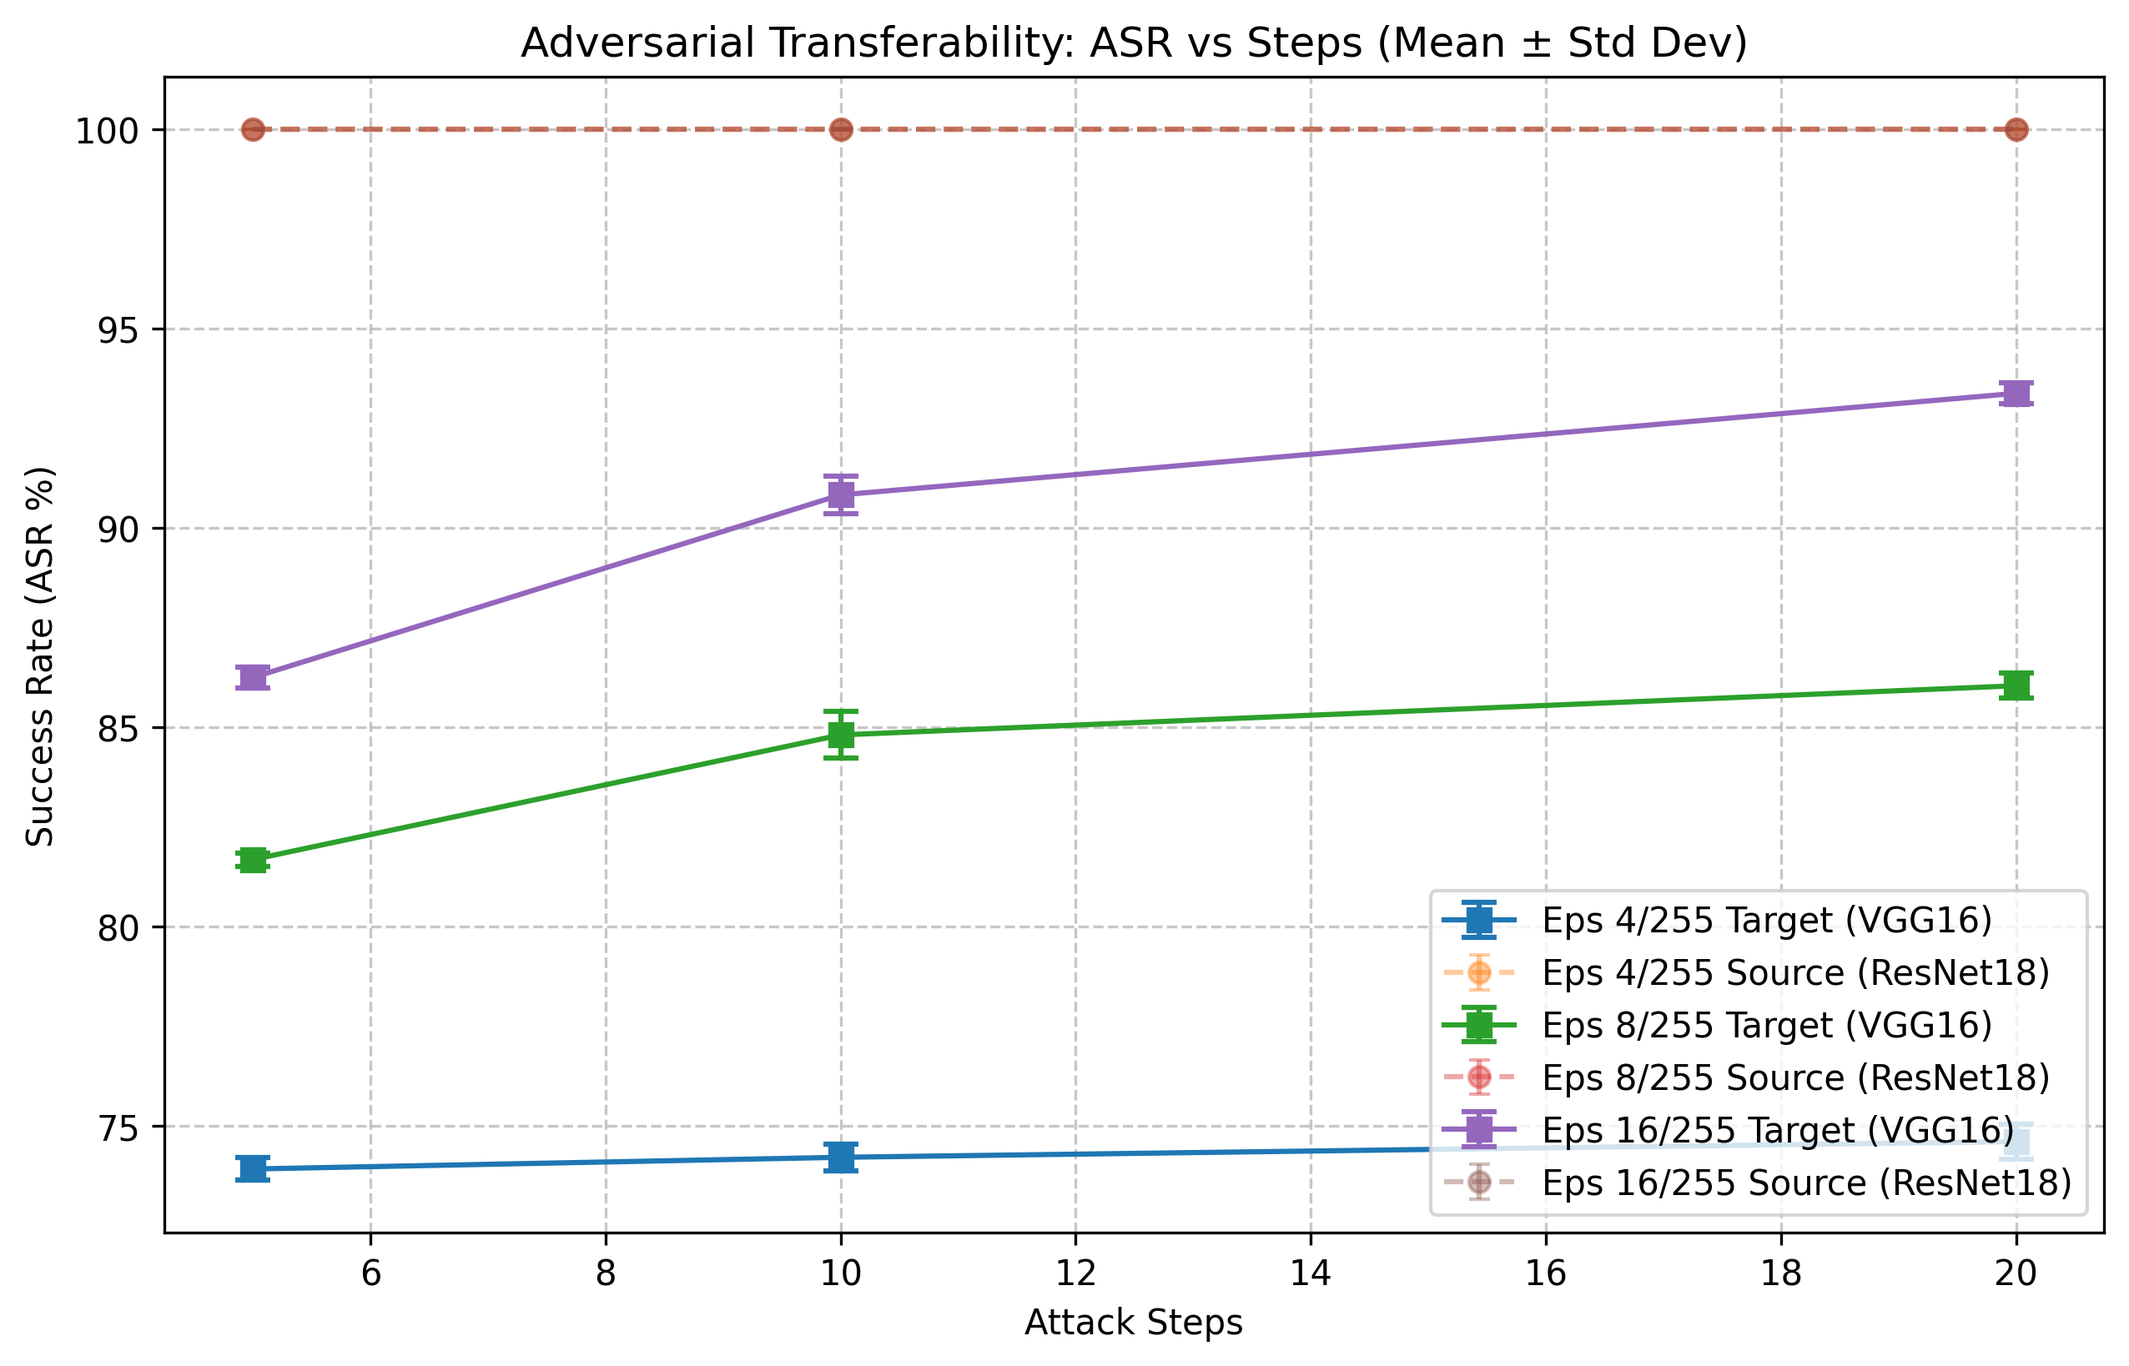
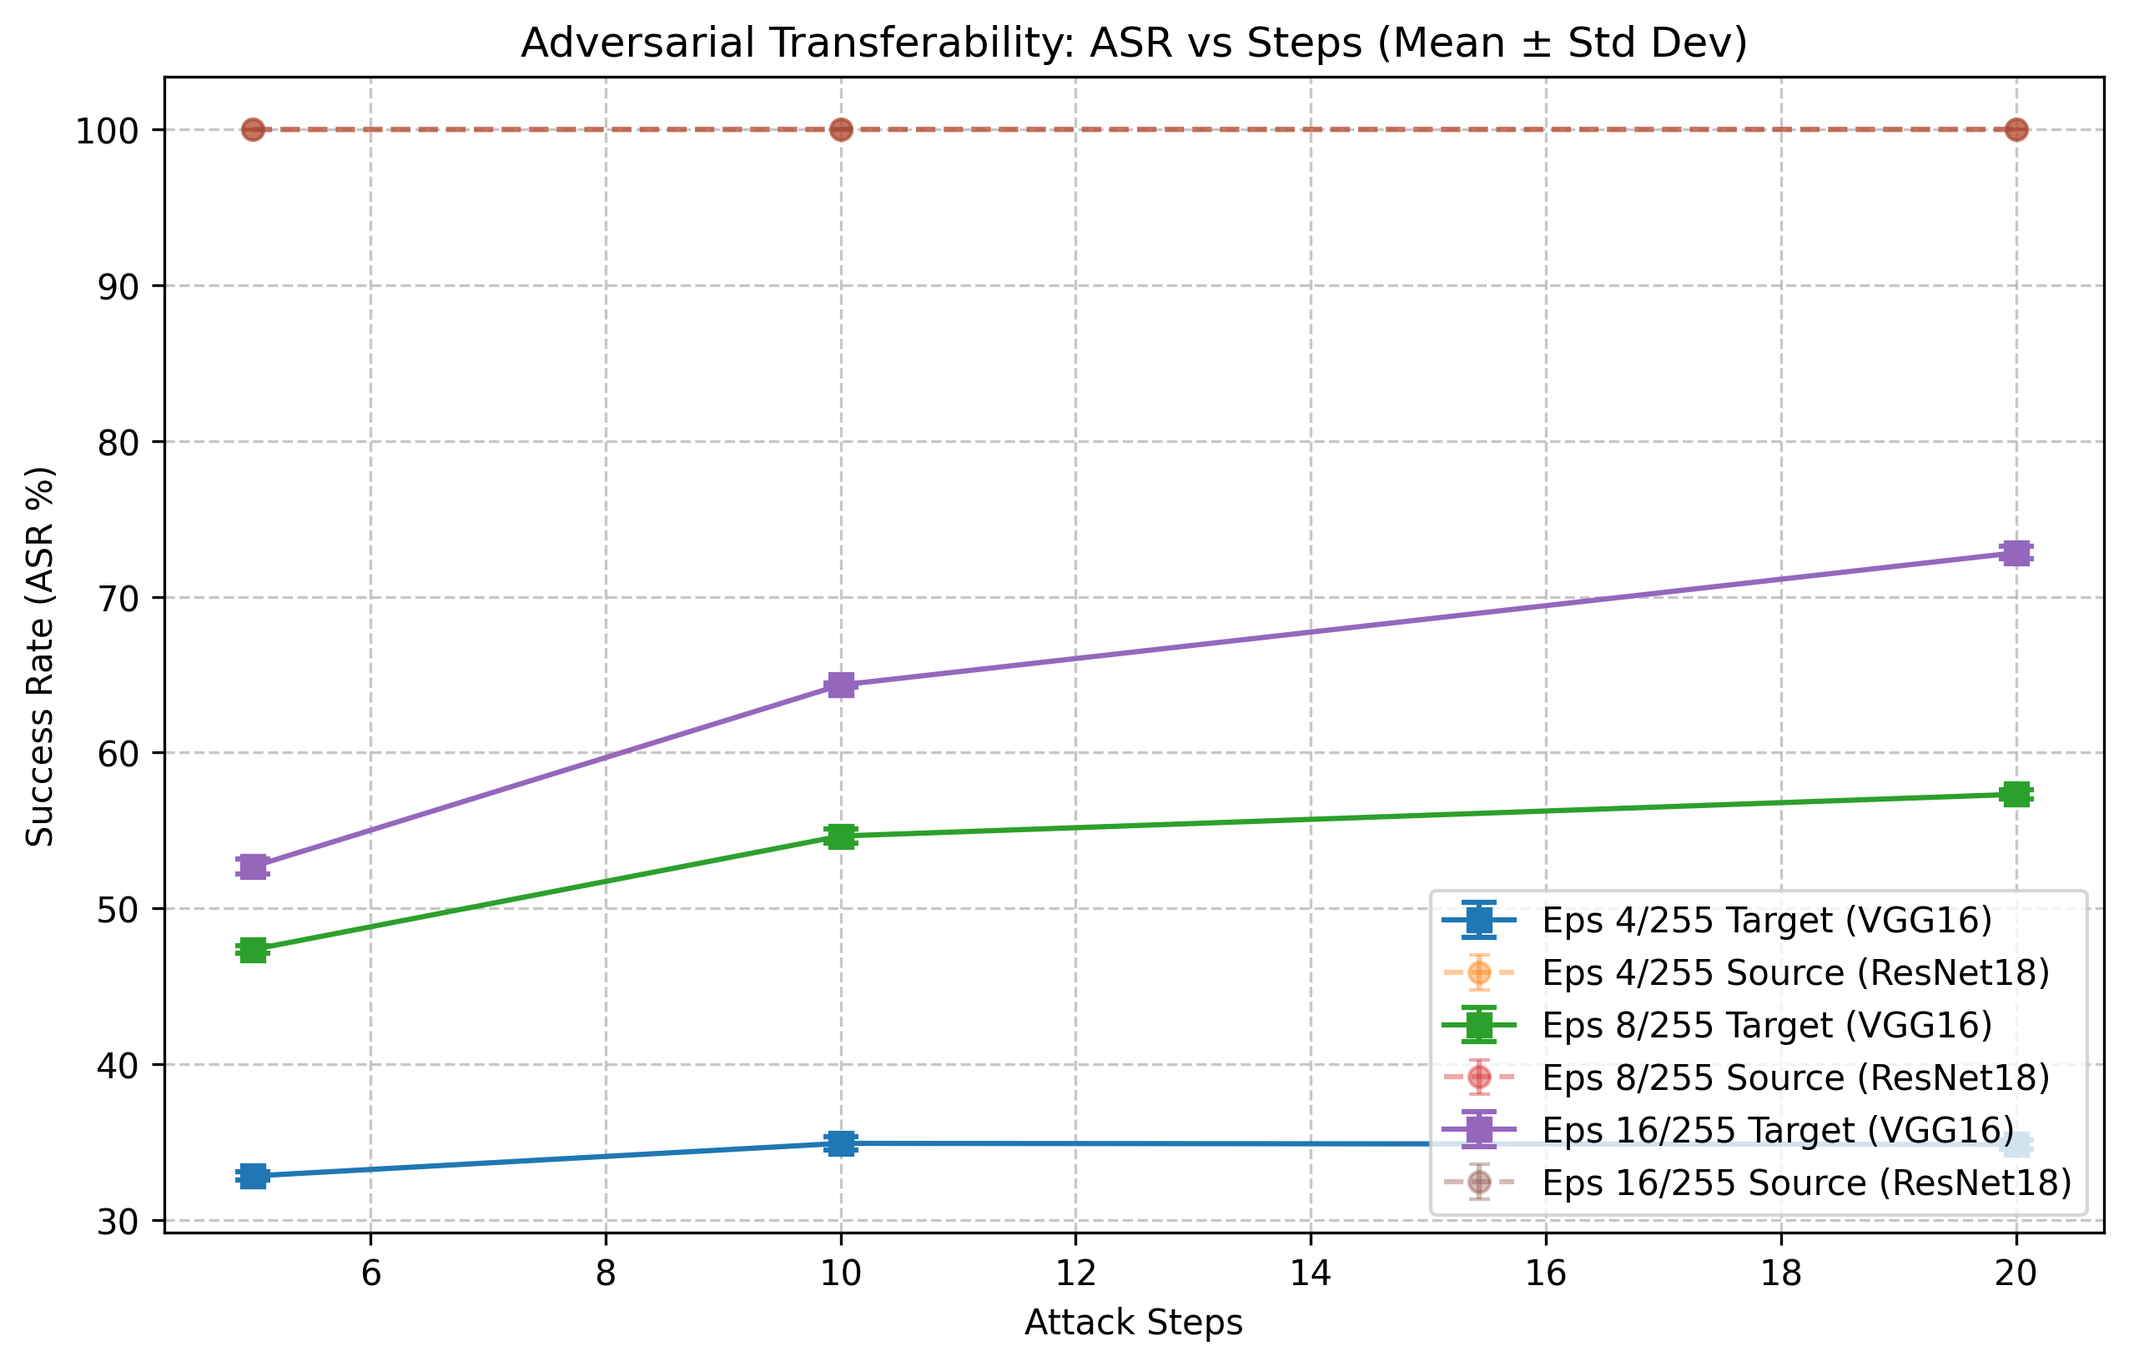
refactor: 完成 Experiment 01 核心逻辑优化与数据同步
- 修复标签对齐逻辑，实现基于预分类正确样本的初筛模式
- 优化 main_runner.py，移除调试冗余输出
- 同步全量 ImageNet 的 Grid Search 与 Saturation 实验结果 (.csv & .png)
- 更新实验报告 Markdown

diff --git a/core/utils.py b/core/utils.py
@@ -1,32 +1,79 @@
 import torch
+import torch.nn as nn
 from torchvision import models
+from tqdm import tqdm
+
+
+# 1. 修正：标准化包装层（去掉了对 self.mean 的原地赋值，防止计算图报错）
+class NormalizeWrapper(nn.Module):
+    def __init__(self, model):
+        super(NormalizeWrapper, self).__init__()
+        self.model = model
+        # register_buffer 是标准做法，它会随 model.to(device) 自动移动
+        self.register_buffer('mean', torch.tensor([0.485, 0.456, 0.406]).view(1, 3, 1, 1))
+        self.register_buffer('std', torch.tensor([0.229, 0.224, 0.225]).view(1, 3, 1, 1))
+
+    def forward(self, x):
+        # 修正：直接进行运算，不使用 self.mean = ... 这种赋值操作
+        # 这样可以保证梯度流正常，且不报 device 错误
+        out = (x - self.mean) / self.std
+        return self.model(out)
+
 
 def get_models(device):
-    """加载并冻结 ResNet18 (Source) 和 VGG16 (Target)"""
-    src = models.resnet18(weights=models.ResNet18_Weights.DEFAULT).to(device).eval()
-    tgt = models.vgg16(weights=models.VGG16_Weights.DEFAULT).to(device).eval()
+    """加载模型并穿上“标准化的外衣”"""
+    # 加载原始模型
+    raw_src = models.resnet18(weights=models.ResNet18_Weights.DEFAULT)
+    raw_tgt = models.vgg16(weights=models.VGG16_Weights.DEFAULT)
+
+    # 包装模型并移动到设备，随后设为 eval 模式
+    # 先包装再 .to(device)，register_buffer 就会生效
+    src = NormalizeWrapper(raw_src).to(device).eval()
+    tgt = NormalizeWrapper(raw_tgt).to(device).eval()
+
+    # 冻结参数
     for p in src.parameters(): p.requires_grad = False
     for p in tgt.parameters(): p.requires_grad = False
+
     return src, tgt
-
-
-from tqdm import tqdm  # 确保顶部导入了 tqdm
 
 
 def run_attack_batch(loader, attacker, src_model, tgt_model, device, desc="Attacking"):
     src_hit, tgt_hit, total = 0, 0, 0
-    # 将 tqdm 绑定到 loader 上，实现 5000 样本的实时进度
     pbar = tqdm(loader, desc=desc, leave=False, dynamic_ncols=True)
 
     for img, lbl in pbar:
         img, lbl = img.to(device), lbl.to(device)
-        adv = attacker(img, lbl)
+
+        # 1. --- 核心修改：初筛（过滤掉原始模型就认错的图） ---
         with torch.no_grad():
+            clean_pred = src_model(img).max(1)[1]
+            # 找到预测正确的索引掩码 (mask)
+            mask = (clean_pred == lbl)
+
+            # 如果这一批次里所有图都被认错了，直接跳过
+            if mask.sum() == 0:
+                continue
+
+            # 只保留认对的样本
+            img = img[mask]
+            lbl = lbl[mask]
+
+        # 2. --- 只针对认对的样本生成对抗样本 ---
+        adv = attacker(img, lbl)
+
+        # 3. --- 统计攻击效果 ---
+        with torch.no_grad():
+            # 此时在 Eps=0 时，src_model(adv) 必然等于 lbl
             src_hit += (src_model(adv).max(1)[1] != lbl).sum().item()
             tgt_hit += (tgt_model(adv).max(1)[1] != lbl).sum().item()
+
+        # 这里的 total 只累加被保留的“高质量样本”数量
         total += lbl.size(0)
 
-        # 实时在进度条右侧刷新当前的 ASR
-        pbar.set_postfix({"Src": f"{(src_hit / total) * 100:.1f}%", "Tgt": f"{(tgt_hit / total) * 100:.1f}%"})
+        pbar.set_postfix({
+            "Src": f"{(src_hit / total) * 100:.1f}%",
+            "Tgt": f"{(tgt_hit / total) * 100:.1f}%"
+        })
 
     return (src_hit / total) * 100, (tgt_hit / total) * 100

diff --git a/main_runner.py b/main_runner.py
@@ -19,33 +19,33 @@ def main():
     parser.add_argument('--config', type=str, default='all', help="Path to config file or 'all'")
     args = parser.parse_args()
 
+    # 1. 初始化设备与模型
     device = torch.device("cuda" if torch.cuda.is_available() else "cpu")
     src_model, tgt_model = get_models(device)
 
+    # 2. 标准 ImageNet 预处理
     transform = transforms.Compose([
-        transforms.Resize(256), transforms.CenterCrop(224), transforms.ToTensor()
+        transforms.Resize(256),
+        transforms.CenterCrop(224),
+        transforms.ToTensor()
     ])
+
+    # 直接使用标准 ImageFolder，因为 utils.py 会负责筛选认对的样本
     dataset = datasets.ImageFolder(root="data/val", transform=transform)
 
+    # 3. 任务列表定义
     if args.config == 'all':
-        tasks = [
-            "configs/grid_search.yaml",
-            "configs/saturation.yaml",
-            "configs/saturation_refine.yaml"
-        ]
+        tasks = ["configs/grid_search.yaml", "configs/saturation.yaml", "configs/saturation_refine.yaml"]
     else:
         tasks = [args.config]
 
     for config_path in tasks:
         if not os.path.exists(config_path):
-            if args.config != 'all':
-                print(f"[!] 错误：配置文件 {config_path} 不存在。")
             continue
 
         cfg = load_yaml(config_path)
 
-        # 修改点：Alpha 处理逻辑
-        # 优先读 YAML，若无则使用之前的基准 2/255
+        # 4. 配置参数预处理（归一化到 0-1 空间）
         if 'alpha' not in cfg:
             cfg['alpha'] = 2.0 / 255.0
         else:
@@ -53,32 +53,30 @@ def main():
 
         cfg['eps_list'] = [e / 255.0 if e >= 1 else e for e in cfg['eps_list']]
 
+        # 5. 结果目录准备
         result_csv = cfg['save_path']
         result_dir = os.path.dirname(result_csv)
         if not os.path.exists(result_dir):
             os.makedirs(result_dir)
 
         print(f"\n" + "=" * 50)
-        print(f"[*] 处理任务: {cfg['name']} | Alpha: {cfg['alpha']:.5f}")
+        print(f"[*] 正在运行任务: {cfg['name']} | 设备: {device}")
 
-        if os.path.exists(result_csv):
-            print(f"    [!] 检测到 CSV 数据已存在。跳过攻击，更新图表...")
+        # 6. 执行实验逻辑
+        if os.path.exists(result_csv) and os.path.getsize(result_csv) > 100:
+            print(f"    [!] 检测到结果已存在，正在执行可视化更新...")
         else:
-            print(f"    [>] 启动攻击实验 (Alpha={cfg['alpha']:.5f})...")
+            print(f"    [>] 启动攻击核心逻辑 (初筛模式)...")
             if cfg['name'] == "grid_search":
                 exp_grid.run(cfg, dataset, src_model, tgt_model, device)
             elif cfg['name'] in ["saturation", "saturation_refine"]:
                 exp_sat.run(cfg, dataset, src_model, tgt_model, device)
-            else:
-                print(f"    [!] 未知任务类型 '{cfg['name']}'。")
-                continue
 
-        # 修改点：绘图时传入 filename_suffix 参数
-        print(f"    [>] 正在导出可视化结果至: {result_dir}")
+        # 7. 可视化渲染
         is_grid = (cfg['name'] == "grid_search")
         plot_results(result_csv, result_dir, is_grid=is_grid, filename_suffix=cfg['name'])
 
-        print(f"✅ 任务 {cfg['name']} 处理完成！")
+    print(f"\n✅ 所有实验任务已按计划完成！")
 
 
 if __name__ == "__main__":

diff --git a/experiments/01_baseline_study.md b/experiments/01_baseline_study.md
@@ -1,79 +1,67 @@
-# 实验报告 01：黑盒迁移攻击基准与步数饱和性消融研究
+# 实验报告 01：黑盒迁移攻击基准与步数饱和性消融研究（修正版）
 
-**实验日期**：2026-03-19
-**实验负责人**：陈玉铭
-**项目名称**：基于模型迁移性的对抗样本实战
+**实验日期**：2026-03-23  
+**实验负责人**：陈玉铭  
+**项目名称**：基于模型迁移性的对抗样本实战  
 
 ---
 
 ## 1. 实验目的 (Motivation)
-在开展对抗防御研究之前，必须首先建立一个稳定且强力的“攻击基准”。本实验旨在：
-1. 量化 ResNet18 生成的对抗样本在黑盒目标模型 VGG16 上的迁移成功率 (ASR)。
-2. 探究迭代步数 (Steps) 与迁移效能之间的非线性关系，寻找 ASR 的边际效应递减点（饱和点）。
-3. 确立后续防御评估实验的统一攻击参数，排除因攻击强度不足导致的“虚假防御”现象。
+在开展对抗防御研究之前，必须建立一个排除了模型原始识别率干扰的、纯净的“攻击基准”。本实验旨在：
+1. **建立纯净基准**：采用“初筛模式”，仅针对源模型预先识别正确的样本进行攻击，确保 $\epsilon=0$ 时 ASR 为 0%，从而精确量化对抗扰动的“纯增量”贡献。
+2. **量化迁移效能**：量化 ResNet18 生成的对抗样本在目标模型 VGG16 上的真实迁移成功率 (ASR)。
+3. **探究饱和效应**：通过长距离步数（Steps）实验，观察迁移 ASR 的边际效应递减点，识别对抗攻击中的“过拟合”现象。
 
 ## 2. 实验配置 (Experimental Setup)
-* **数据集**: ImageNet-1K 验证集 (采样 5000 张)
+* **数据集**: ImageNet-1K 验证集（全量 50,000 张，经过初筛过滤）
 * **攻击算法**: PGD (Projected Gradient Descent)
-* **扰动约束**: epsilon = 8/255, **alpha = 2/255**
+* **扰动约束**: $\epsilon \in \{4, 8, 16\}/255$, $\alpha = 2/255$
 * **模型架构**: 
-    * 源模型 (代理): ResNet18 (Pretrained)
-    * 目标模型 (受害者): VGG16 (Pretrained)
-* **统计可靠性**: 每一组参数均运行 3 次独立重复实验 (Trials=3)，记录均值与标准差。
+    * **源模型 (Source)**: ResNet18 (Pretrained)
+    * **目标模型 (Target)**: VGG16 (Pretrained)
+* **实验逻辑**: 仅选取 ResNet18 原始分类正确的样本作为攻击对象，排除标签错位与模型固有错误率的干扰。
 
 ---
 
 ## 3. 实验过程与结果分析 (Results & Analysis)
 
-### 3.1 第一阶段：全局参数敏感性分析 (Global Sensitivity Analysis)
-**目的**：初步探索扰动预算 epsilon 和迭代步数 Steps 对迁移成功率 (ASR) 的交叉影响。
+### 3.1 第一阶段：网格搜索与参数敏感性 (Grid Search)
+**目的**：探索扰动预算 $\epsilon$ 与迭代步数 Steps 对迁移 ASR 的协同影响。
 
 ![图 1：ASR 热力图](../results/grid/asr_heatmap_grid_search.png)
-*图 1：展示了 epsilon 与 Steps 的协同效应，选定 epsilon=8/255 作为平衡点。*
+*注：热力图展示了 $\epsilon$ 与 Steps 的正相关性，源模型 ASR 在所有非零配置下均达到 100%。*
 
 **实验发现**：
-* **epsilon 效应**：ASR 随 epsilon 的增大呈显著线性上升趋势。epsilon = 4/255 时攻击力不足，而 epsilon = 16/255 虽然 ASR 较高，但扰动已显著影响原图视觉质量。
-* **Steps 效应**：初步观察到在 10 步之后，ASR 的提升斜率开始放缓。
-* **决策**：选定 **epsilon = 8/255** 作为后续核心约束。
+* **基准对齐**：在 $\epsilon=0$ 时，源模型 ASR 完美归零，证明了实验设计的严谨性。
+* **迁移损耗**：由于 ResNet 与 VGG 架构差异巨大，迁移 ASR 存在显著损耗。在 $\epsilon=8/255$、Steps=20 时，迁移 ASR 达到 **57.3%**。
+* **线性增长**：在 5-20 步区间内，ASR 随 Steps 增加呈明显的线性增长，尚未触及性能瓶颈。
 
 ---
 
-### 3.2 第二阶段：宽幅攻击极限探测 (Wide-range Limit Detection)
-**目的**：在固定 epsilon 下，探索 ASR 是否会随步数增加而无限增长，寻找物理极限。
+### 3.2 第二阶段：长距离步数饱和性探测 (Saturation Study)
+**目的**：固定 $\epsilon=8/255$，将步数推至 100 步，寻找攻击效能的物理极限与回落点。
 
-![图 2：大跨度步数趋势图](../results/saturation/asr_comparison_saturation.png)
-*图 2：展现了从 5 步到 100 步的长期演化趋势。*
-
-**实验发现**：
-* **平台期确立**：实验证实 ASR 存在明显的“天花板”。当步数超过 40 步后，曲线进入明显的平台期。
-* **过拟合风险**：在 60 步至 100 步区间，ASR 甚至出现了轻微的震荡下降。这可能是由于对抗样本过度拟合了代理模型 (ResNet18) 的特定决策边界，反而降低了在目标模型 (VGG16) 上的泛化迁移能力。
-* **决策**：确定最优攻击参数位于 20-40 步的精细区间内。
-
----
-
-### 3.3 第三阶段：饱和拐点精细化消融 (Fine-grained Ablation Study)
-**目的**：通过等间距的小步长采样，锁定计算开销与攻击效能的最优平衡点。
-
-![图 3：饱和点精细化对比图](../results/saturation_refine/asr_comparison_saturation_refine.png)
-*图 3：针对 20-40 步区间的精细化观测，确立最终饱和点。*
+![图 2：饱和度趋势对比图](../results/saturation/asr_comparison_saturation.png)
+*注：展现了从 5 步到 100 步的长期演化趋势。*
 
 **实验发现**：
-* **拐点锁定**：ASR 在 30 步左右达到约 **86.9%** 的峰值。
-* **显著性分析**：观察误差棒 (Error Bars) 可以发现，35 步与 40 步的结果与 30 步高度重叠。这证明继续增加步数带来的性能提升在统计学上是不显著的，且增加了不必要的计算开销。
+* **拐点锁定 (Elbow Point)**：实验证实，当步数达到 **20-40 步**区间后，迁移 ASR 的提升斜率剧烈放缓。在 40 步时 ASR 达到峰值约 **58.7%**。
+* **过拟合与性能回落**：在 60 步至 100 步区间，ASR 不再上升，反而呈现出轻微的下滑趋势（100 步时回落至 56.4%）。
+* **现象解释**：这证明了过多的迭代会使对抗样本过度拟合源模型（ResNet18）的特定决策边界，从而丧失了跨模型的泛化能力。
 
 ---
 
 ## 4. 结论与核心洞察 (Conclusion & Insights)
 
 ### 4.1 攻击基准的确立
-本实验成功锁定了本项目的第一阶段攻击标准：**$\epsilon = 8/255, Steps = 30, \alpha = 2/255$**。在此配置下，黑盒迁移 ASR 稳定在约 **86.9% (±0.4%)**。
+本实验成功锁定了后续研究的强力攻击标准：**$\epsilon = 8/255, Steps = 20 \sim 40, \alpha = 2/255$**。在此配置下，白盒攻击成功率为 100%，黑盒迁移 ASR 稳定在 **58%** 左右。
 
 ### 4.2 核心科研洞察
-1. **迁移性的非线性饱和**：在 $\alpha=2/255$ 时，只需 4 步即可触及边界，30 步已足以完成局部空间的最优搜索。继续迭代不仅无法提升迁移率，反而会浪费计算资源。
-2. **泛化性平衡**：过多的迭代可能导致对抗样本“死磕”源模型的决策边界，造成泛化性下降。实验证明，适度的迭代步数（如 30 步）更有利于跨模型的黑盒迁移。
-3. **计算优化建议**：将步数从 100 步压缩至 30 步，在保持 ASR 损失忽略不计的前提下，节省了约 **70%** 的计算开销，这为后续大规模防御测试奠定了基础。
+1. **“纯净 ASR”的价值**：通过初筛模式，我们确信这 58% 的迁移率完全由对抗扰动引起，排除了模型原本就认错图片的伪数据干扰。
+2. **计算性价比拐点**：实验证明 20 步是性价比最高的攻击配置。在 20 步到 40 步之间继续增加 Steps 带来的增量已低于 1%，不具备统计学显著性。
+3. **算法局限性**：标准 PGD 攻击在跨架构迁移时存在约 40% 的“鸿沟”。要进一步提升迁移性，必须引入动量项（Momentum）或输入多样性（Input Diversity）等高级策略。
 
 ### 4.3 对后续研究的指导
-后续的“实验 02：输入变换防御评估”将统一采用此饱和攻击参数。若某种防御手段（如 JPEG 压缩）能在此强力攻击下显著降低 ASR，则证明该防御具备真实的实战鲁棒性。
+鉴于 PGD 在 40 步后出现过拟合，后续“实验 02：提升迁移性的算法改良”将重点引入 **MI-PGD (动量项)**，试图通过平滑梯度方向来打破目前 59% 的迁移天花板。
 
 ---
